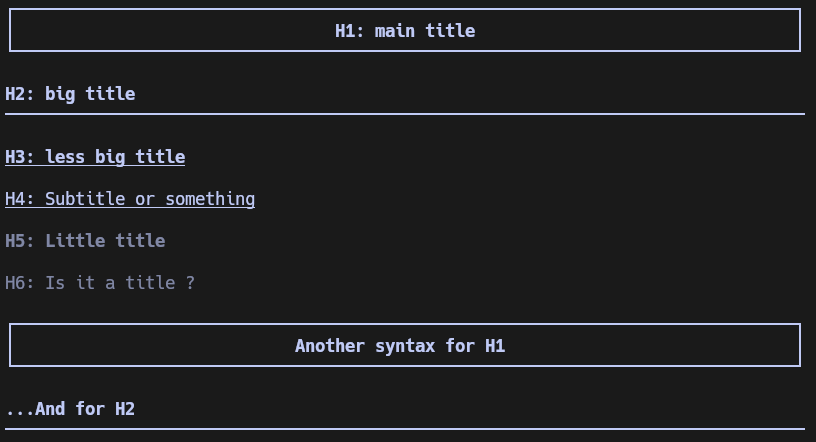
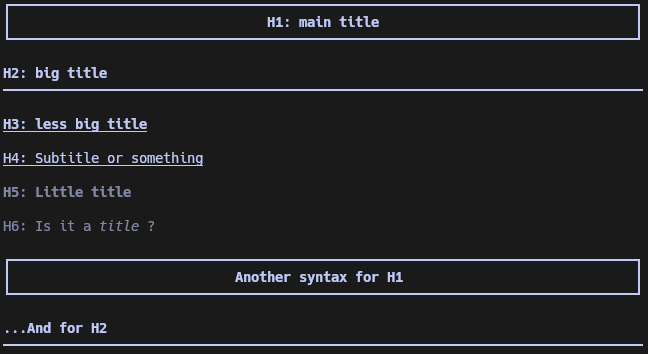
readme

diff --git a/MD_TEST.md b/MD_TEST.md
@@ -1,28 +1,17 @@
-### Unordered
+# H1: main title
 
-- I ain't got:
-  * no home
-  * ~no shoes~
-    - Then *what have I got* ?
-    - What I have got that **nobody can take away** ?
+## H2: big title
 
-### Ordered
+### H3: less big title
 
-1. **Major scale modes**
-  1. Ionian
-  2. Dorian
-  2. Phrygian
-  4. Note: roman numbers are not fully handled yet.
-    2. They would show `xxxxx` for 50th item yet
-    2. As for 3 levels-deep alphabetical lists : they would i.e. show `}` for 27th item yet (GH would show "aa")
-    2. (Who writes 50 items lists in markdown anyway ?)
-2. **Minor melodic scale modes**
-  - You can mix list styles
-  - (Who knows these modes names anyway ?)
-    1. qfkqs
+#### H4: Subtitle or something
 
-### Checkboxes
+##### H5: Little       title
 
-- You should open an issue if :
-  - [ ] You do write 50 items lists in markdown
-  - [x] You do know the names of minor melodic scale modes
+###### H6: Is it a *title* ?
+
+Another syntax for H1
+=====================
+
+...And for H2
+---
